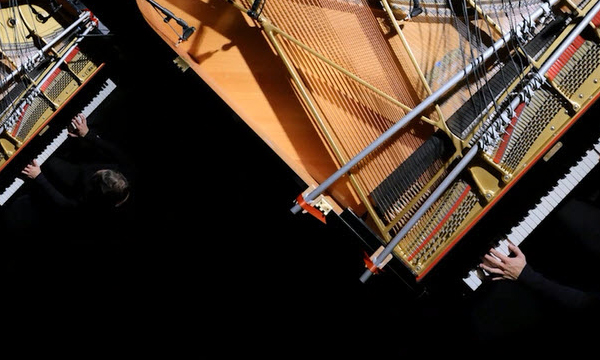
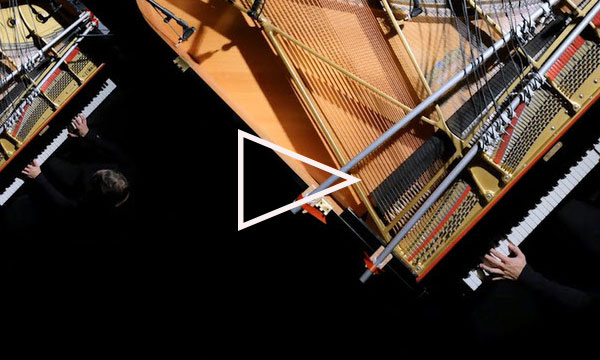
listen page revamped

Changed region(s): [[0.39, 0.3667, 0.6, 0.6417]]

diff --git a/app/assets/stylesheets/main.css.scss b/app/assets/stylesheets/main.css.scss
@@ -158,7 +158,46 @@ section{
     }
 
     &.right{
-      
+      h5{
+        margin-bottom: 40px;
+      }
+      ul{
+        li{
+          display: inline-block;
+        }
+      }
+
+      .album{
+        width: 100%;
+      }
+
+      .links{
+        padding: 20px 0;
+
+        a{
+          color: black;
+          padding: 0 20px;
+        }
+      }
+
+      .videos{
+        font-size: 0;
+        li{
+          width: 33.3333%;
+
+          &:first-child{
+            text-align: left;
+          }
+
+          &:last-child{
+            text-align: right;
+          }
+
+          img{
+            width: 95%;
+          }
+        }
+      }
     }
   }
 

diff --git a/app/views/pages/home.blade.php b/app/views/pages/home.blade.php
@@ -96,13 +96,20 @@ Classical, yet forward-thinking; expressive and emotional, yet with one foot on 
     <section class="news right"></section>
     <section class="listen right textSection">
       <div class="centered">
+        <h3>Grandbrothers – Dilation</h3>
+        <h5>released 23/03/2015 on FILM</h5>
         <img src="/assets/dilation.jpg" alt="Grandbrothers - Dilation" class="album">
         <ul class="links">
           <li><a href="https://open.spotify.com/album/1LGAPTkAjQkpop4EWk5QKI" target="_blank">Stream</a></li>
           <li><a href="http://hyperurl.co/jbznyb" target="_blank">Download</a></li>
           <li><a href="http://hyperurl.co/m3qg7y" target="_blank">CD</a></li>
           <li><a href="http://hyperurl.co/0qni9n" target="_blank">Vinyl</a></li>
-        </ul>        
+        </ul>
+        <ul class="videos">
+          <li><a href="https://www.youtube.com/watch?v=1W81jQN__88" target="_blank"><img src="/assets/thumb_arctica.jpg" alt="Arctica Video"></a></li>
+          <li><a href="https://www.youtube.com/watch?v=BNLm3vo0xHI" target="_blank"><img src="/assets/thumb_naive.jpg" alt="Naive Rider Video"></a></li>
+          <li><a href="https://www.youtube.com/watch?v=Ni9kdZRHhZ4" target="_blank"><img src="/assets/thumb_ndr.jpg" alt="NDR Live"></a></li>
+        </ul>     
       </div>
     </section>
     <section class="welcome right"></section>
